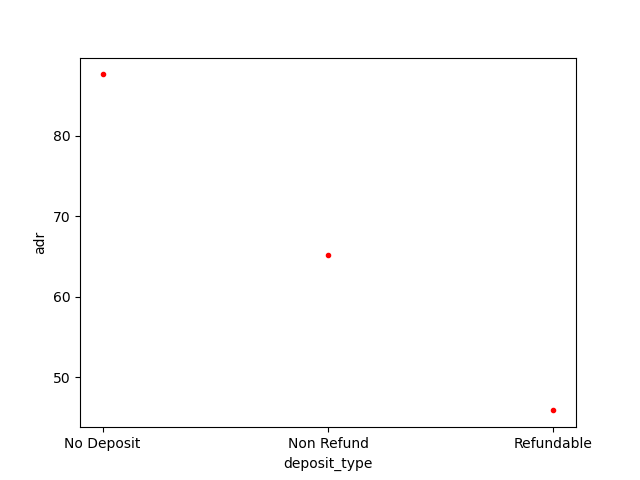
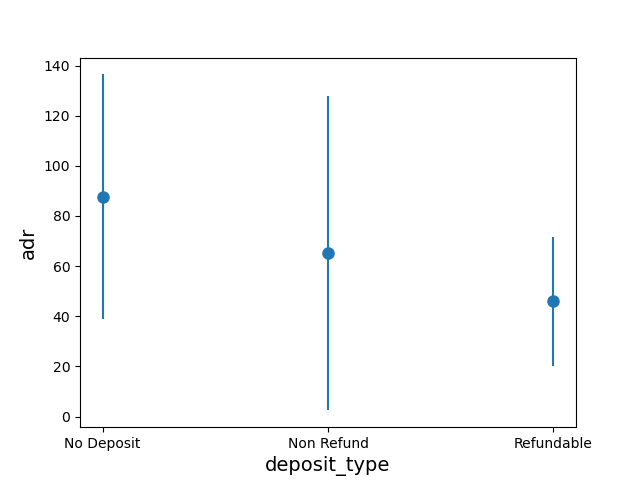
Updating 1/16

diff --git a/data_insight.py b/data_insight.py
@@ -12,6 +12,7 @@ class DataInsight():
         self.train_df = self.dataset.train_test_df[self.dataset.train_test_df['dataset'].eq(self.dataset.data_label["train"])].drop(['dataset'], axis=1)
         self.train_df['adr'] = self.dataset.target_df['adr']
         self.train_df['is_canceled'] = self.dataset.target_df['is_canceled']
+        print(type(self.train_df))
 
     def plot_attribute_adr(self, attribute):
         attribute_element = self.dataset.get_train_column(attribute).to_numpy().squeeze()
@@ -51,11 +52,12 @@ class DataInsight():
         # print(len(avg_list))
         # print(len(std_list))
         plt.figure()
-        plt.errorbar(attribute_element, avg_list, std_list, linestyle='None', marker='^')
-        plt.xlabel(attribute)
-        plt.ylabel('adr_w_std')
-        # plt.savefig("./data_adr_analysis/img/{}_adr_mean.png".format(attribute))
-        plt.savefig("./data_adr_analysis/img_w_std/{}_adr_mean_std.png".format(attribute))
+        plt.errorbar(attribute_element, avg_list, std_list, linestyle='None', marker='o', markersize = '8')
+        plt.xlabel(attribute, fontsize = 14)
+        plt.ylabel('adr', fontsize = 14)
+        # plt.ylabel('adr_w_std')
+        plt.savefig("./data_adr_analysis/img/{}_adr_mean.png".format(attribute))
+        # plt.savefig("./data_adr_analysis/img_w_std/{}_adr_mean_std.png".format(attribute))
         # plt.show()
 
         # plt.figure()
@@ -66,8 +68,8 @@ class DataInsight():
         # plt.show()
         # # plt.show()
 
-        data_num_df = pd.DataFrame({attribute: num_list})
-        data_num_df.to_csv(r'./data_num_analysis/csv/{}_num.csv'.format(attribute), index=True)
+        # data_num_df = pd.DataFrame({attribute: num_list})
+        # data_num_df.to_csv(r'./data_num_analysis/csv/{}_num.csv'.format(attribute), index=True)
 
     def plot_attribute_is_canceled_mean(self, attribute):
         attribute_element = self.dataset.get_train_column(attribute).to_numpy().squeeze()

diff --git a/main.py b/main.py
@@ -54,6 +54,7 @@ for only_attribute in remove_only_list:
 # hotel_is_cancel.add_feature(data_encoded)
 # hotel_is_cancel.remove_feature(encode_target)
 
+
 # ---Remove only---
 x_train_is_canceled = hotel_is_cancel.get_train_dataset()
 x_test_is_canceled = hotel_is_cancel.get_test_dataset()
@@ -72,11 +73,29 @@ for only_attribute in remove_only_list:
 
 # ------
 
+# deposit_type_column = x_test_is_canceled[['deposit_type_Non Refund']]
+# print(deposit_type_column)
+# exit()
+
+
 clf = TheRandomForest(x_train_is_canceled, y_train_is_canceled, x_test_is_canceled)
-clf.v_fold_validate()
+# clf.v_fold_validate()
 
 clf.train()
 is_canceled_df = clf.predict()
+# print(hotel_is_cancel.get_feature(['deposit_type']))
+# is_canceled_df
+# print(is_canceled_df)
+# deposit_type_column = hotel_is_cancel.train_test_df.eq(hotel_is_cancel.data_label["test"])[['deposit_type']]
+deposit_type_column = x_test_is_canceled[['deposit_type_Non Refund']]
+# print(deposit_type_column)
+# print(is_canceled_df)
+print(is_canceled_df['is_canceled'].value_counts().loc[1])
+is_canceled_df['is_canceled'].values[deposit_type_column['deposit_type_Non Refund'] == 1] = 1
+print(is_canceled_df['is_canceled'].value_counts().loc[1])
+# data_frame['country'].values[data_frame['country'].isin(only_country)] = 'RMV'
+print(is_canceled_df)
+# exit()
 
 
 hotel_adr = Dataset()
@@ -115,7 +134,7 @@ for only_attribute in remove_only_list:
 
 
 reg = TheRandomForestRegressor(x_train_adr, y_train_adr, x_test_adr)
-reg.v_fold_validate()
+# reg.v_fold_validate()
 
 reg.train()
 adr_df = reg.predict()

diff --git a/tempCodeRunnerFile.py b/tempCodeRunnerFile.py
@@ -1,0 +1,2 @@
+t_type_column = hotel_is_cancel.train_test_df.eq(hotel_is_cancel.data_label["test"])['deposit_type']
+# exit()
